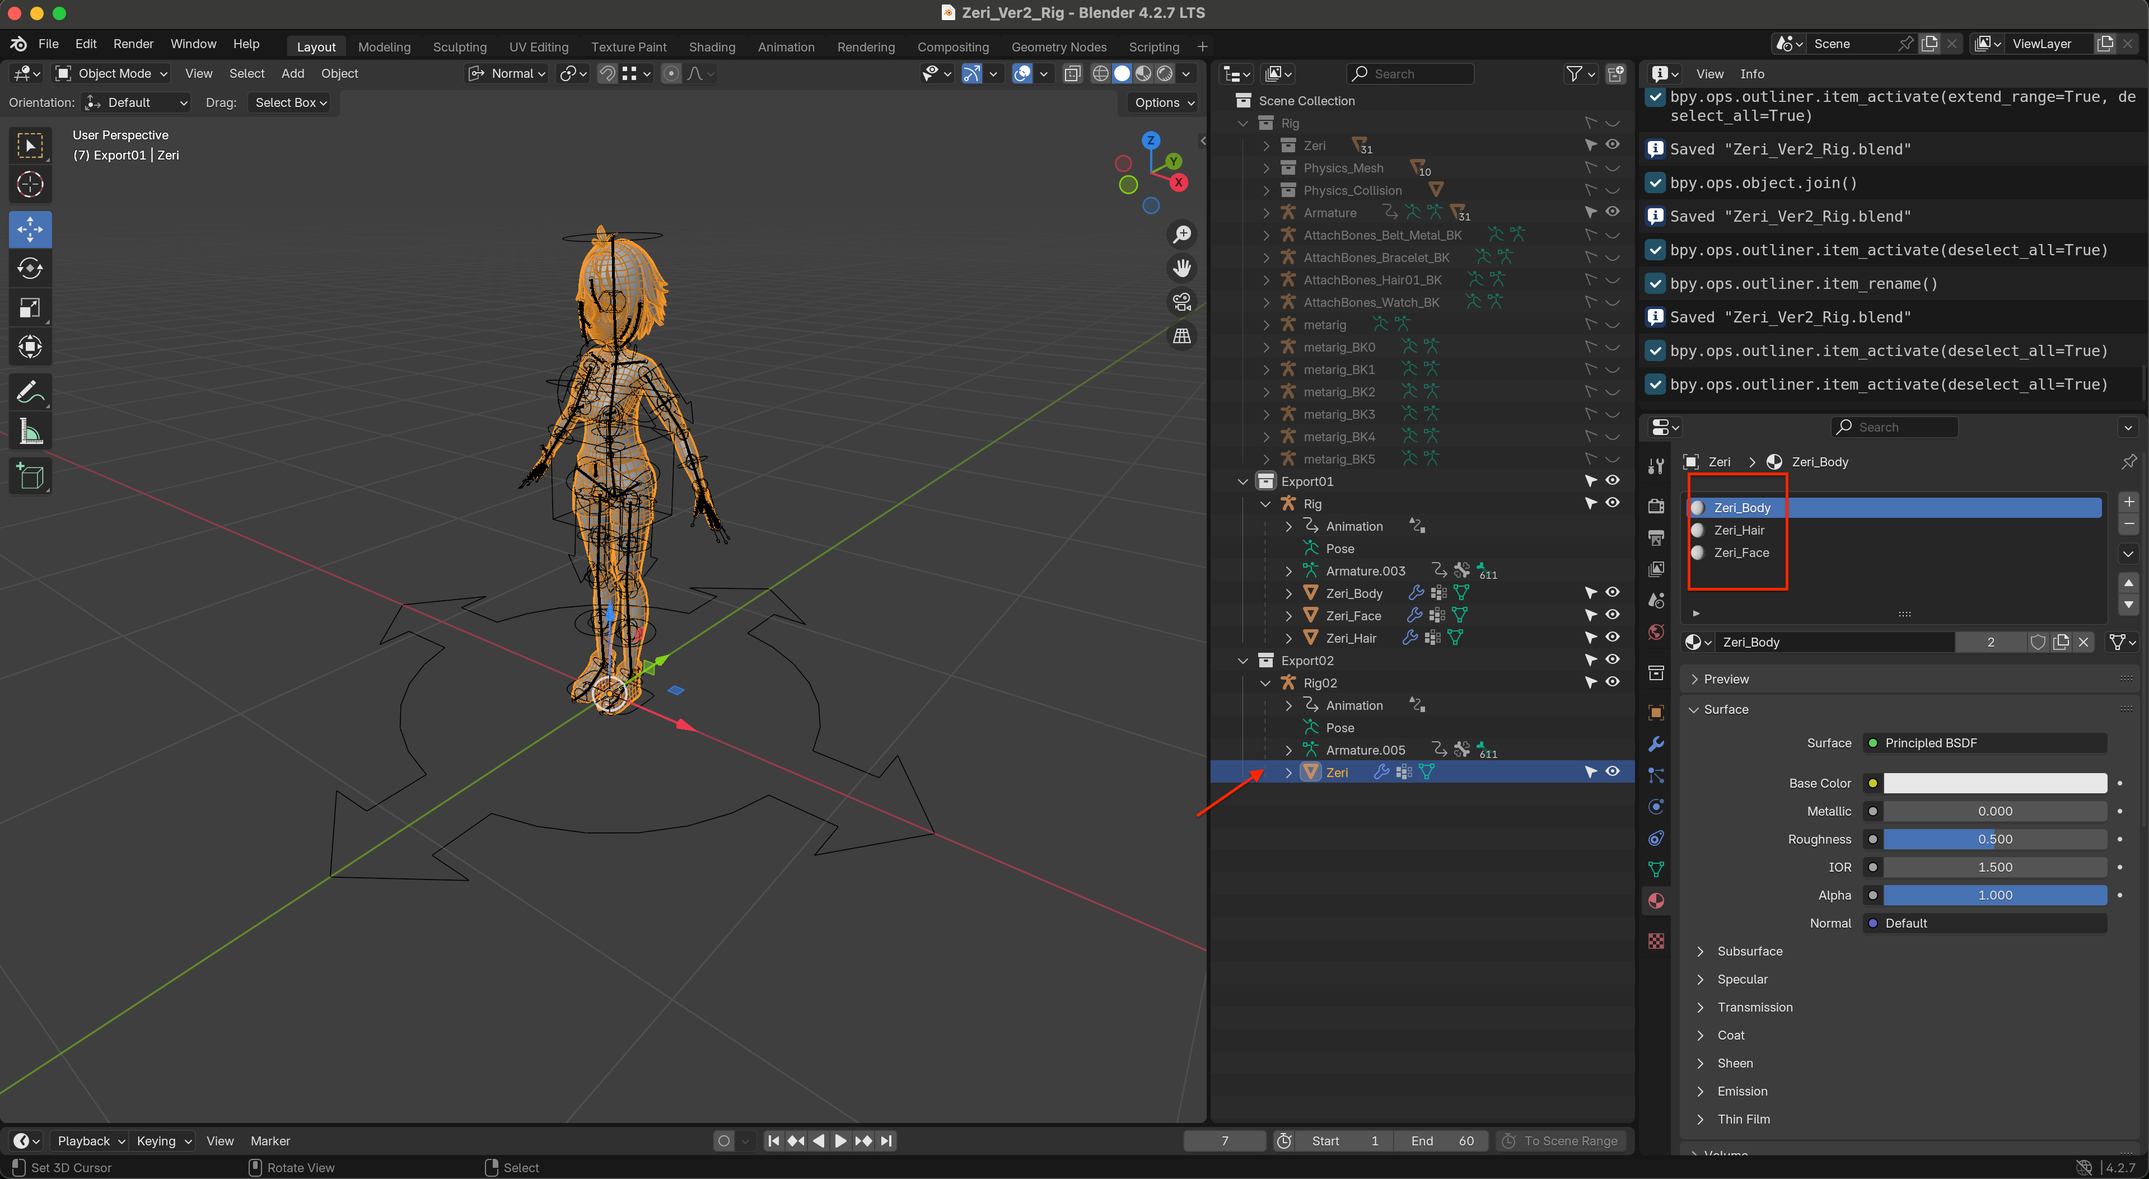
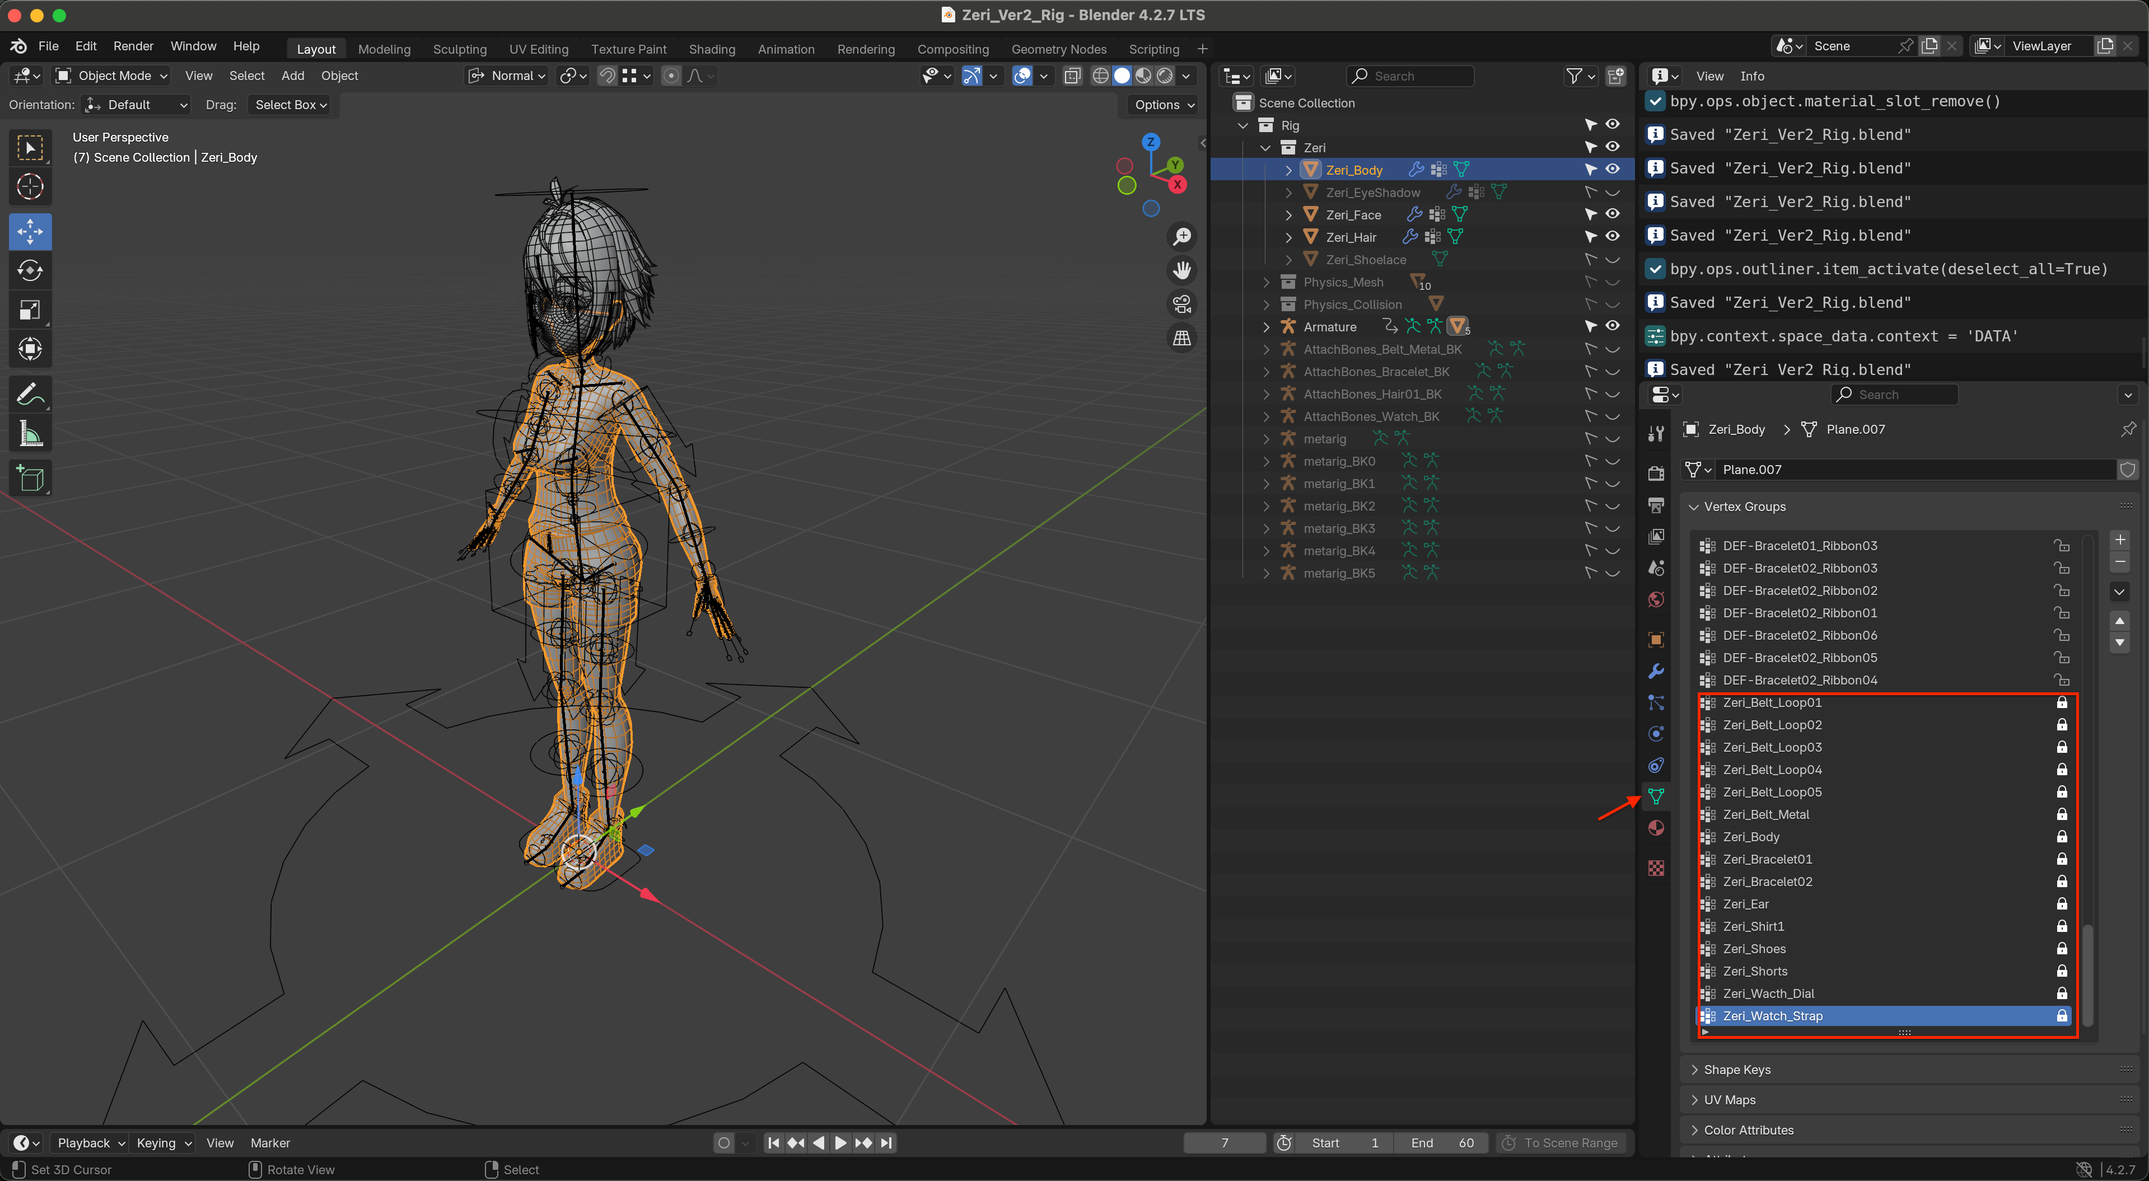
update blender.md

diff --git a/readme/blender.md b/readme/blender.md
@@ -122,10 +122,34 @@
 
 ### UV与游戏表现和性能的相关性
 * 展UV时，叠放UV布局(例如对称的左右手)可以充分利用Texture有限的空间，减少Texture数量有助于提升性能。但是会限制艺术表现(例如左右手可能会要求不同的贴花,则不适合叠放UV)。
-* 展UV时，游戏中细节多、屏幕占比大的UV孤岛需要尽可能放大,相反被遮挡、细节少、屏幕占比小的UV孤岛需要尽可能缩小。
+* 展UV时，细节多、屏幕占比大的UV孤岛需要尽可能放大；相反被遮挡、细节少、屏幕占比小的UV孤岛需要尽可能缩小。
+* 导入Unity游戏引擎后，制作Prefab时选择`Prefab -> Unpack`而非`Prefab -> UnPack Completely`。
 
 ### 建模、绑定和动画分文件(多人协作开发)
-* 将需要共享的对象整理到一个集合，使用`Link`关联文件；使用`Library Overide -> Make -> Select & Content`在关联文件的基础上作修改；使用`Library Overide -> Reset -> Select & Content`放弃修改或更新关联文件；对于关联文件无法支持的修改(例如权重绘制)，使用`ID Data -> Make Local`本地化(会取消关联)；另见:[鸽子老师的Blender教程 第一节](https://www.bilibili.com/video/BV1Md4y1g7qZ/?spm_id_from=333.1387.favlist.content.click)
+* 将需要共享的对象整理到一个集合，使用`Link`关联文件；使用`Library Overide -> Make -> Select & Content`在关联文件的基础上作修改；使用`Library Overide -> Reset -> Select & Content`放弃修改或更新关联文件
+* 对于关联文件无法支持的修改(例如权重绘制)，使用`ID Data -> Make Local`本地化(会取消关联)(或者在导入时使用`Append`)；在执行`Make Local`后可能遇到`Object`已经本地化，但是相关联的`Mesh Data`以及`Material`仍然是关联状态,导致`Object`依旧不支持编辑,可使用如下脚本将选中的对象本地化:
+![image](../images/blender/Make_Link_Object_Local_Error.png)
+```
+import bpy
+
+# 获取所有链接对象
+linked_objects = [obj for obj in bpy.data.objects if obj.library]
+
+for obj in linked_objects:
+    # 本地化 Object
+    obj.make_local()
+    
+    # 本地化 Mesh 数据（如果存在）
+    if obj.data and obj.data.library:
+        obj.data.make_local()
+    
+    # 本地化 Material 数据（遍历所有材质槽）
+    for slot in obj.material_slots:
+        if slot.material and slot.material.library:
+            slot.material.make_local()
+
+print("所有对象及其关联数据已本地化！")
+```
 
 ### UV形变的镜像同步
 * 问题描述:镜像对称的对象,更改某一边UV,希望另一边UV镜像同步
@@ -139,6 +163,9 @@
 * 问题解决:安装插件[UVToolkit](https://github.com/oRazeD/UVToolkit),取消勾选`UV Sync Selection`,全选弯曲的UV孤岛,使用`Straighten UVs`打直UV
 ![image](../images/blender/Make_UV_Straight_Solution.png)
 
+### 骨骼的精确定位
+* 使用`Shift + s -> Cursor to Selected`将游标定位到精确位置，进入骨架的`Edit Mode`，选择骨骼的`Head`或`Tail`,使用`Shift + s -> Selected To Cursor`将骨骼精确定位到游标位置。
+
 ### 权重绘制
 * 使用自动权重以减少工作量,然后在常用姿势和极限姿势下进行权重的修缮.
 * 必须打开`options -> Auto Normalized`,使权重和为1。只使用三种笔刷:`Add`、`Subtract`和`Blur`。强度最好设置为0.1。
@@ -147,19 +174,21 @@
 
 ### 绑定和导出的矛盾
 * 问题描述:绑定时为了方便,需要保持各个部分的分离；但是导出时，希望作为一个整体(导入到游戏引擎)。
-* 问题解决:为每个部分添加材质(命名规则`****_Rig`),以防止使用`control + j`合并后，需求变动仍需要更改对象重新绑定。各部分拥有材质后，执行分离操作时，选择按材质分离即可。在导出时，复制需要导出的对象,将各对象合并并分配相应的材质，此时也是对副本骨骼使用插件`Expy Kit`的骨骼转换功能（`Rigfy Game Friendly`）的最佳时机.
+* 问题解决:为每个部分添加`顶点组`,在使用`control + j`合并后，如果需求变动，仍可以通过`顶点组`方便地分离对象。
 ![image](../images/blender/Rig_and_Export_Conflict01.png)
 ![image](../images/blender/Rig_and_Export_Conflict02.png)
-
-### 骨骼的精确定位
-* 使用`Shift + s -> Cursor to Selected`将游标定位到精确位置，进入骨架的`Edit Mode`，选择骨骼的`Head`或`Tail`,使用`Shift + s -> Selected To Cursor`将骨骼精确定位到游标位置。
+![image](../images/blender/Rig_and_Export_Conflict03.png)
+![image](../images/blender/Rig_and_Export_Conflict04.png)
+![image](../images/blender/Rig_and_Export_Conflict05.png)
+![image](../images/blender/Rig_and_Export_Conflict06.png)
+![image](../images/blender/Rig_and_Export_Conflict07.png)
 
 ### 在Rigfy上添加自定义骨骼
 * 问题描述:人物模型上的许多小挂件(例如:手表、背包等),希望添加专属的额外骨骼与之绑定，而非将小挂件直接绑定到Rigfy人体骨骼上。
 * 问题解决:
-  1. `Shift + a`添加单个骨骼(属于新骨架),更改`Bone Collection`为`AttachBones_*****`格式。
+  1. `Shift + a`添加单个骨骼(属于新骨架),更改`Bone Collection`为`AttachBones_*****`格式或者`Custom_*****`格式等。
   ![image](../images/blender/Add_Custom_Bone_To_Rigfy01.png)
-  2. 切换到`Pose Mode`更改相应骨骼的`Rigfy Type`为`basic.super_copy`,勾选`Control`表示会生成`CTRL-***`类型的Rigfy控制骨、通过`Widget`自定义骨骼的形状、勾选`Deform`表示会生成`DEF-***`Rigfy控制骨、`Relink Constraints`对于只有一根骨骼来说暂不需要设置。
+  2. 切换到`Pose Mode`更改相应骨骼的`Rigfy Type`为`basic.super_copy`(只需要生成控制骨应当设置为：`basic.row_copy`),勾选`Control`表示会生成`CTRL-***`类型的Rigfy控制骨、通过`Widget`自定义骨骼的形状、勾选`Deform`表示会生成`DEF-***`Rigfy形变骨、`Relink Constraints`对于只有一根骨骼来说暂不需要设置。
   ![image](../images/blender/Add_Custom_Bone_To_Rigfy02.png)
   3. 使用`control + j`合并新增骨架(只有一根骨骼)到Rigfy的原型骨架`metarig`(合并之前记得使骨架`Apply All Transform`),在`metarig`的`骨架`属性页签，设置新增`Bone Collection`的UI位置。
   ![image](../images/blender/Add_Custom_Bone_To_Rigfy03.png)
@@ -173,7 +202,7 @@
   ![image](../images/blender/Add_Custom_Bone_To_Rigfy07.png)
   8. 参考视频:[[Blender 4.0 RIGIFY] ＃6-1: Custom Rigs (theory)](https://www.youtube.com/watch?v=Cq2Vw6EFXy0)
   9. 关于更复杂的(比如:头发的物理模拟如何加入Rigfy骨架)，可参考视频:[blender进阶丨头发和衣服动画物理模拟结算](https://www.bilibili.com/video/BV16G4y1z7BD/?spm_id_from=333.1387.favlist.content.click&vd_source=b9589ad635db7dddd215259c55a8a09c)
-  10. 过程中需要注意原始文件`***_AttachBones`和`Metarig`的备份
+  10. 过程中需要注意原始文件`AttachBones_*****`和`Metarig`的备份
 
 ### 将Mixamo等网站的动画重定向到Rigfy骨架
 * 问题描述:对于动画菜鸟的我，充分利用免费或付费的动画可大大降低学习和开发成本。
@@ -182,7 +211,7 @@
   ![image](../images/blender/Mixamo_Animation_Format.png)
   * 导入Mixamo动画,并检查角色的`Rest Pose`是`T Pose`还是`A Pose`
   ![image](../images/blender/Import_Mixamo_Animation.png)
-  * 调整关联的Rig对象的当前Pose(`Rest Pose`依旧保持`A Pose`,无需更改)为`T Pose`,此举可保证重定向的两方起始姿势相同，避免重定向过程中骨骼的不正确旋转。
+  * 调整Rig对象的`当前`Pose(`Rest Pose`依旧保持`A Pose`,无需更改)为`T Pose`,此举可保证重定向的两方起始姿势相同，避免重定向过程中骨骼的不正确旋转。
   ![image](../images/blender/Rig_Target_Change_T_Pose.png)
   * 选择需要制作动画的Rig骨架并切换到`Pose Mode`,打开`Expy Kit`面板，设置`Bind To`为导入的Mixamo动画骨骼`Armature`。
   ![image](../images/blender/Expy_Kit_Bind_Armature01.png)
@@ -195,50 +224,26 @@
   ![image](../images/blender/Check_Retarget_Animation02.png)
   * 逐帧检查动画重定向的结果是否正确合理，如重定向结果出现偏差，可通过在源骨架(即Mixamo动画的骨架)的`Retarget Bones`层（该层的所有骨骼均由插件为重定向功能自动生成且后缀名均带有`***_RET`），选择出错的骨骼,并调整该骨骼的位置、旋转等使动画重定向结果正确。(为方便观察,请隐藏不必要的视窗信息,仅保留`Retarget Bones`层骨骼和正在制作动画的Rig模型)
   ![image](../images/blender/Retarget_Animation_Adjust_Operation.png)
-  * 重定向无误之后，选择制作动画的骨骼并切换`Pose Mode`,`w`呼出上下文菜单，在`Expy Kit`工具集中，使用`Animation -> Bake Constrainted Actions`烘焙动画(烘焙动画到形变骨)。
+  * 重定向无误之后，选择制作动画的骨骼并切换`Pose Mode`,`w`呼出上下文菜单，在`Expy Kit`工具集中，使用`Animation -> Bake Constrainted Actions`烘焙动画。
   ![image](../images/blender/Retarget_Animation_Bake.png)
   * 在弹出的`Bake Constrainted Actions`面板中，取消勾选`Stash to NLA stack`,点击`Bake and Exit`完成动画烘焙。
   * 将`Timeline`视窗类型切换到`Dope Sheet`下的`Action Editor`查看相应的`Action`。
   ![image](../images/blender/Retarget_Animation_Action_Result.png)
 
-### 重定向得到的动画如何从230帧缩减为60帧
-* 问题描述:使用`Expy Kit`重定向`Mixamo`动画到`Rigfy`骨骼后,由于`Mixamo`动画是动捕，有230帧，无法应用到游戏中；需要缩减帧数至少到60帧，甚至30帧(具体不同动作的总帧数有待商榷)。
-* 问题解决：将视窗切换到`Text Editor`,输入Python脚本并执行，将当前的`Action`从230帧缩减为60帧。
-![image](../images/blender/Animation_230_To60_Frame.png)
-```
-import bpy
-
-# 获取当前动画
-action = bpy.context.object.animation_data.action
-
-# 获取所有关键帧
-fcurves = action.fcurves
-for fcurve in fcurves:
-    keyframe_points = fcurve.keyframe_points
-    for keyframe in keyframe_points:
-        # 计算新帧位置
-        new_frame = int(keyframe.co[0] * 60 / 230)
-        keyframe.co[0] = new_frame
-
-# 更新动画
-bpy.context.scene.frame_end = 60
-```
-
 ### 导出FBX模型文件到游戏引擎
 * 另见下文 **导出FBX动画文件到游戏引擎**。不同点在于无需重命名场景，无需导出`Animation`。
-* 注意：由于灵活Rig的需求,在权重绘制和动画制作过程中，需要保持各个部分的分离，另见上文 **绑定和导出的矛盾**。
 
 ### 导出FBX动画文件到游戏引擎
 * 切换到当前需要导出的Action,并且更改场景名称(导出的FBX文件中，场景名称对应动画切片的名称，命名规则可以形如:`Zeri_Walking01`)
 ![image](../images/blender/Export_Animation_FBX01.png)
 * 导出窗口:`Include`选项卡下，设置`Limit To`为`Selected Objects`、设置`Object Types`为`Armature` + `Mesh`;
 ![image](../images/blender/Export_FBX_Include_Setting.png)
-* 导出窗口:`Transform`选项卡下,设置`Forward`为`-Y Forward`,`Up`应该回自动更改为`Z Up`(如果没有，需手动更改)，取消勾选`Apply Space Transform`;
+* 导出窗口:`Transform`选项卡下,设置`Forward`为`-Y Forward`,`Up`应该会自动更改为`Z Up`(如果没有，需手动更改)，取消勾选`Apply Space Transform`;
 ![image](../images/blender/Export_FBX_Transform_Setting.png)
 * 导出窗口:`Geometry`选项卡下，保持默认设置
 * 导出窗口:`Armature`选项卡下，勾选`Only Deform Bones`,取消勾选`Add Leaf Bones`，其余保持默认设置。
 ![image](../images/blender/Export_FBX_Armature_Setting.png)
-* 导出窗口:`Animation`选项卡下,取消勾选`Key All Bones`（不需要为所有骨骼在每一帧都生成关键帧）,取消勾选`NLA Strips`,取消勾选`All Actions`（只导出当前Action，且由于工程分文件，一个文件只包含一个Action动画）,勾选`Force Start/End Keying`（在动画的起始帧和结束帧强制插入关键帧，即使这些帧原本没有关键帧，例如：一段30帧的行走动画第1帧和第30帧；如果动画需要在游戏引擎中循环播放，例如角色的`Idle`动画，勾选此项可以确保动画的平滑过渡）。
+* 导出窗口:`Animation`选项卡下,取消勾选`Key All Bones`（不需要为所有骨骼在每一帧都生成关键帧）,取消勾选`NLA Strips`,取消勾选`All Actions`（只导出当前Action，且由于工程分文件，一个文件只包含一个Action动画）,勾选`Force Start/End Keying`（在动画的起始帧和结束帧强制插入关键帧，即使这些帧处原本没有关键帧，例如：一段30帧的行走动画第1帧和第30帧。如果动画需要在游戏引擎中循环播放，例如角色的`Idle`动画，勾选此项可以确保动画的平滑过渡）。
 ![image](../images/blender/Export_FBX_Animation_Setting.png)
 * 导出的FBX动画文件命名规则,可以形如:`@Zeri_Walking01`或`@ZeriWalking01`或`Zeri_Walking01_Animation`
 * 如果游戏有换装功能，这里选择导出的骨骼和模型对象会有所不同(后补)
@@ -250,7 +255,7 @@ bpy.context.scene.frame_end = 60
 ### Unity游戏引擎导入FBX动画文件
 * 在FBX的`Inspector`面板中,`Model`选项卡下:勾选`Bake Axis Conversion`，取消勾选`Import Visibility`,取消勾选`Import Camera`，取消勾选`Import Light`；
 ![image](../images/blender/Unity_Import_FBX_Animation01.png)
-* 在FBX的`Inspector`面板中,`Rig`选项卡下:`Animation Type`下拉菜单选择`Generic`（为何不使用`Humanoid`类型？因为导入动画会有`Lower Retargeting Quality`警告，并且我们暂时不会使用`Humanoid`的动画重定向功能,至于`Humanoid IK`功能也不是必须的，我们在`Generic`类型上自定义脚部的`IK`功能）;`Avatar Definition`下拉菜单选择`Copy From Other Avatar`;`Source`选择对应人物模型所生成的`Avatar`。
+* 在FBX的`Inspector`面板中,`Rig`选项卡下:`Animation Type`下拉菜单选择`Generic`（为何不使用`Humanoid`类型？因为导入动画会有`Lower Retargeting Quality`警告，并且我们暂时不会使用`Humanoid`的动画重定向功能,至于`Humanoid IK`功能也不是必须的，我们可以在`Generic`类型上自定义脚部的`IK`功能）;`Avatar Definition`下拉菜单选择`Copy From Other Avatar`;`Source`选择对应人物模型所生成的`Avatar`。
 ![image](../images/blender/Unity_Import_FBX_Animation02.png)
 * 在FBX的`Inspector`面板中,`Animation`选项卡下:`Anim Compression`下拉菜单选择`Optimal`(Unity会自动选择动画的压缩方式，同时保持较高的动画质量),对于需要循环播放的动画(例如:Idle、Walking)勾选`Loop Time`，是否需要勾选`Loop Pose`，取决于动画的起始帧和结束帧是否一致，当起始帧和结束帧不一致时(例如角色的Idle动画)，需要勾选`Loop Pose`以使动画循环平滑过渡；关于`Root Transform ***`相关是否勾选，可参考视频: [Root Motion Explained (Unity Tutorial)](https://www.youtube.com/watch?v=Xl_5roq4UlI&list=WL&index=24)
 ![image](../images/blender/Unity_Import_FBX_Animation03.png)
@@ -263,8 +268,7 @@ bpy.context.scene.frame_end = 60
 * 问题解决:使用`Expy Kit`插件重新组织骨架骨骼的层级关系，使导出的FBX模型骨架转换为对游戏引擎友好。具体:选择需要转换的骨架并切换到`Pose Mode`,`w`呼出上下文菜单，找到`Expy Kit`工具集的下的`Conversion -> Rigfy Game Friendly`。
 ![image](../images/blender/Convert_Rigfy_To_Game_Friendly.png)
 ![image](../images/blender/Rigfy_Game_Friendly_Result.png)
-* 注意:即使后续源骨架`metarig`变动(例如：增加了用于头发模拟物理的骨骼)，再通过`metarig`的`Re-Generate Rig`重新生成`Rigfy`骨架，针对这种情况，插件也支持新的`Rigfy`骨架转换为游戏引擎友好。
-* 注意:如果更改了Rigfy骨架，则所有关联此骨架制作的动画有可能丢失动画数据（原因可能是骨骼层级和命名变得不匹配）。为了避免这种情况,尽量复制一份副本之后，再使用`Expy Kit`插件转换骨架为游戏引擎友好。（实际测试时，任何时间点转换骨架，相应的动画文件都不会出问题）为了防止万一的不幸，记得使用`File -> Save As`做好文件的备份。随时使用`File -> Clean Up -> Purge Unused Data`清理不再使用的对象,保持工程文件的简洁(例如:动画重定向完成后，清理Mixamo动画相关)。
+* 注意:若后续源骨架`metarig`变动(例如：增加了用于头发模拟物理的骨骼)，再通过`metarig`的`Re-Generate Rig`重新生成`Rigfy`骨架，再次使用插件的骨骼转换功能也是可行的(但存在风险:由于骨架骨骼变动,所以可能导致新的`Rigfy`骨架经过插件的骨骼变换之后，新骨架的层级关系可能和旧骨架的层级关系不再相同，进而导致关联此Rig的动画文件的动画出现异常,丢失动画数据;为了避免这种情况，应该在制作动画之前,完成所有骨骼的添加工作,包括：头发、飘带、小物件等，并且锁定骨骼不被修改。如果不幸还是遇到这种情况,首先请做好文件的备份，然后尝试在动画文件中重新关联新骨架。)
 
 ### 重新组织文件的目录结构后，导致link关联文件丢失。
 * 问题描述：被关联的文件路径未改变，改变了操作关联的文件路径，导致工程出现问题。blender提示“`1 libraries and 318 linked data-blocks are missing(...)`”。
